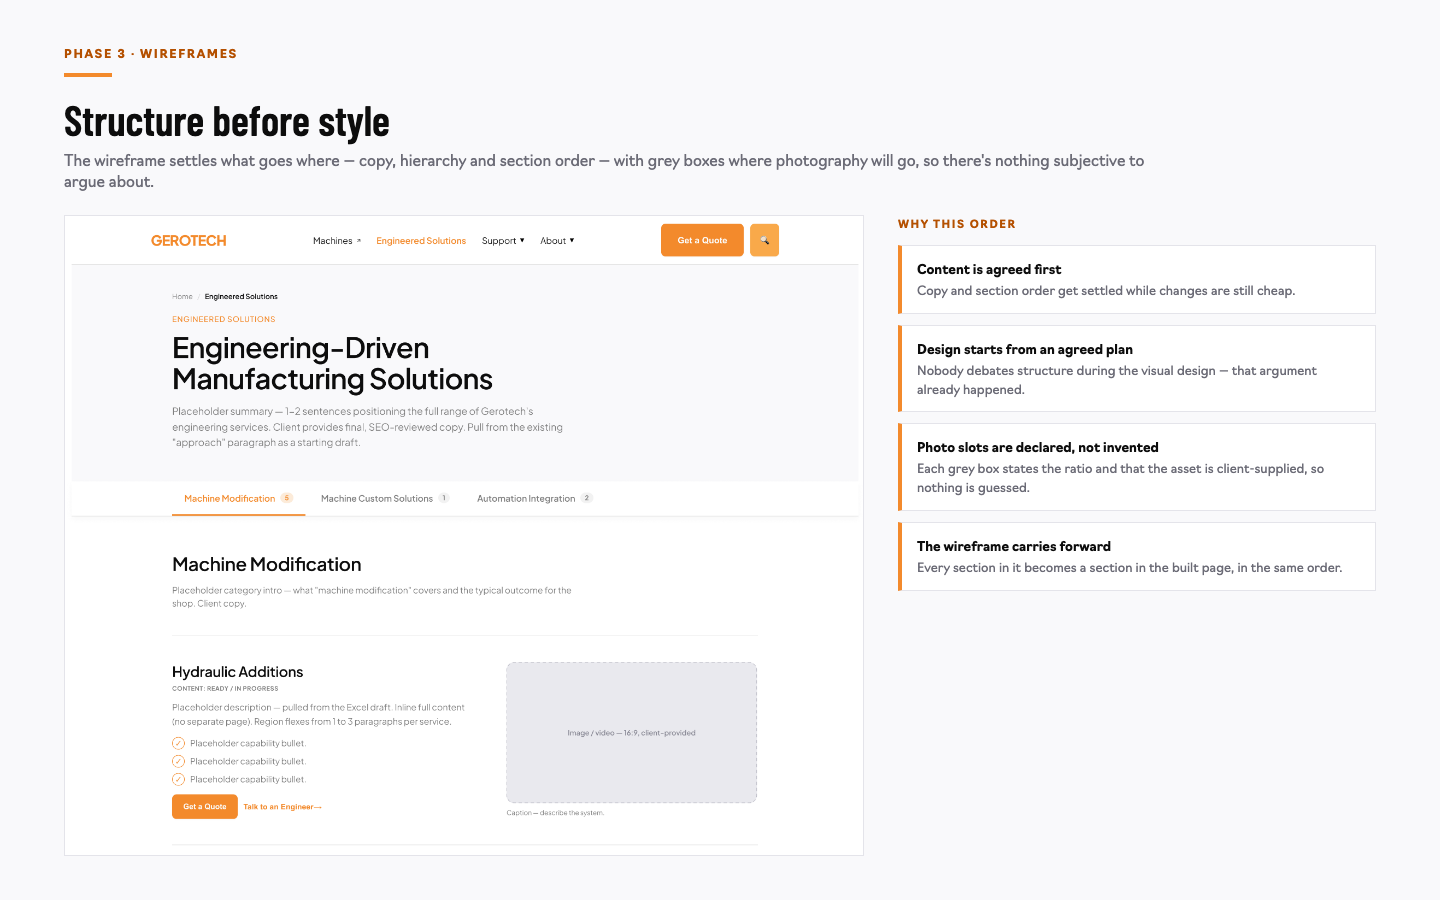
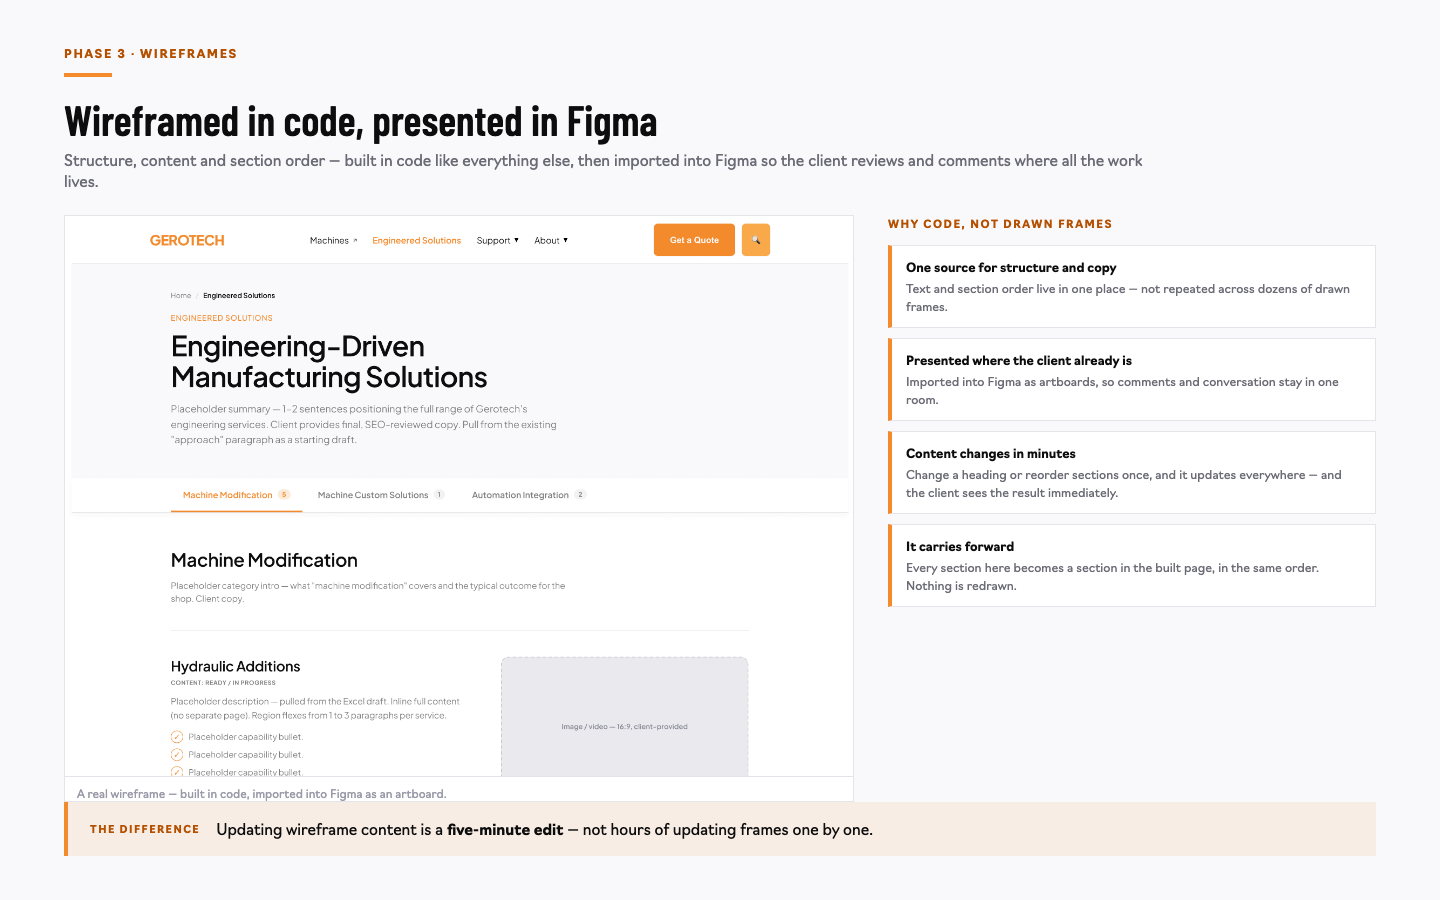
Wireframes are code too; Figma comments map to code via Cursor
- Wireframes are built in code and presented in Figma; a content edit is
  a five-minute job rather than hours of updating frames.
- Comments in Figma are mapped to the code with Cursor, and the updated
  build is re-imported into Figma as artboards.
- Checklist is now ten items.

diff --git a/gerotech-process-playbook.html b/gerotech-process-playbook.html
@@ -341,7 +341,7 @@
     <div class="slide__inner">
       <p class="eyebrow">Internal process playbook</p>
       <h1 class="slide__title">From kickoff call to a <span class="accent">dev-ready</span> build</h1>
-      <p class="lede">Figma is where the client sees and discusses everything. The code prototype is how we make the design fast, responsive and real — and it becomes the build. Seven phases, taught from the Gerotech redesign.</p>
+      <p class="lede">Everything we make — wireframes, designs, the build itself — is made in code and presented in Figma, where the client sees it and comments. That's why a content change takes minutes, not hours. Seven phases, taught from the Gerotech redesign.</p>
       <div style="margin-top:28px;font-size:clamp(12px,.9vw,14px);letter-spacing:.06em;text-transform:uppercase;color:rgba(255,255,255,.55);line-height:2">
         Discovery &nbsp;·&nbsp; Sitemap &nbsp;·&nbsp; Wireframes &nbsp;·&nbsp; Design &nbsp;·&nbsp; Review &nbsp;·&nbsp; Convert &nbsp;·&nbsp; Hand off
       </div>
@@ -361,11 +361,12 @@
       <div class="phases">
         <div class="phase"><span class="phase__num">01</span><span class="phase__name">Kickoff &amp; discovery</span><span class="phase__why">Understand the business, audit what exists, agree what success looks like.</span></div>
         <div class="phase"><span class="phase__num">02</span><span class="phase__name">Sitemap</span><span class="phase__why">Agree the structure and navigation before anything is designed.</span></div>
-        <div class="phase"><span class="phase__num">03</span><span class="phase__name">Wireframes</span><span class="phase__why">Settle content, hierarchy and section order — in Figma.</span></div>
-        <div class="phase"><span class="phase__num">04</span><span class="phase__name">Design</span><span class="phase__why">Direction, then the homepage, then every page — Figma and code together.</span></div>
-        <div class="phase"><span class="phase__num">05</span><span class="phase__name">Review &amp; approve</span><span class="phase__why">One feedback channel, tied to the exact spot.</span></div>
+        <div class="phase"><span class="phase__num">03</span><span class="phase__name">Wireframes</span><span class="phase__why">Built in code, presented in Figma — so content changes take minutes.</span></div>
+        <div class="phase"><span class="phase__num">04</span><span class="phase__name">Design</span><span class="phase__why">Moodboards set direction, then every page — built in code, reviewed in Figma.</span></div>
+        <div class="phase"><span class="phase__num">05</span><span class="phase__name">Review &amp; approve</span><span class="phase__why">Comments in Figma, mapped to the code with Cursor.</span></div>
         <div class="phase"><span class="phase__num">06</span><span class="phase__name">Convert to WordPress</span><span class="phase__why">Native editor plus structured fields. No page builder.</span></div>
         <div class="phase"><span class="phase__num">07</span><span class="phase__name">Hand off to dev</span><span class="phase__why">A designed, working front end ready for complex functionality.</span></div>
+        <div class="phase" aria-hidden="true"></div>
       </div>
       <div class="callout">
         <span class="callout__label">Use it when</span>
@@ -441,6 +442,7 @@
             <li><strong>Responsive ideas tested for real.</strong> Breakpoints, stacking and type scaling are judged in a browser, not imagined in a frame.</li>
             <li><strong>Animation concepts the client can watch.</strong> Motion is the hardest thing to review as a static image.</li>
             <li><strong>Layout experiments in minutes.</strong> Try three options before lunch and keep the one that works.</li>
+            <li><strong>Content updates in minutes, not hours.</strong> Change a heading or reorder sections once — no editing frames one by one.</li>
             <li><strong>Internal until design.</strong> Before the design phase it's ours to think in; from there it's what the client sees — through Figma.</li>
           </ul>
           <div class="proof">
@@ -626,10 +628,11 @@
       <ol class="checklist">
         <li>Audit what exists before designing anything.</li>
         <li>Agree the sitemap while changing it is free.</li>
-        <li>Settle structure and content in wireframes — in Figma.</li>
+        <li>Wireframe in code; present it in Figma.</li>
         <li>Set direction with moodboards, then agree the homepage.</li>
-        <li>Design in a loop: code for behaviour, Figma for the conversation.</li>
-        <li>Import code into Figma as artboards so the client reviews it there.</li>
+        <li>Design in code; keep Figma in step.</li>
+        <li>Import the build into Figma as artboards for review.</li>
+        <li>Map every Figma comment to the code with Cursor.</li>
         <li>One feedback channel, tied to a spot and an owner.</li>
         <li>Convert with the native editor plus structured fields — no builder.</li>
         <li>Hand dev a working front end, not a mockup.</li>

diff --git a/speaker-notes.md b/speaker-notes.md
@@ -16,19 +16,17 @@
 
 ## The one thing to land
 
-> **Figma is the room.** Everything the client sees and discusses happens there. **Code is the engine** — it's how we make the design responsive, animated and real, and it becomes the build.
-
-And the bridge that makes both work: the code prototype goes **back into Figma as artboards**, so the client always reviews in the room they know.
+> **Everything is built in code. Figma is where it's presented.** Wireframes, designs and the build itself are all made in code and shown in Figma, where the client comments — and those comments are mapped back to the code with Cursor. **That's why a content change takes minutes, not hours.**
 
 ## The three sentences that carry the deck
 
-1. **"Figma is the room. Code is how we make it, not where they review it."** (slide 3)
-2. **"Code for the hard-to-judge parts, back into Figma for the conversation."** (slide 10)
+1. **"Everything is built in code. Figma is where it's presented and discussed."** (slide 3)
+2. **"A wireframe content change is a five-minute edit — not hours of updating frames."** (slide 6)
 3. **"We hand dev a designed front end that's ready for the complex functionality our clients need."** (slide 16)
 
 ## Tone rules
 
-- The two tools are **not competitors**. If you catch yourself saying "we design in code instead of Figma", stop — that's the version we corrected.
+- The two tools are **not competitors**, and code is not "instead of" Figma. **Everything is built in code; Figma is where it's presented.** If you catch yourself saying "we design in code instead of Figma", stop — that's a version we corrected twice.
 - Talk in outcomes and decisions, never technology.
 - Never say "zero licences". The precise claim is on slide 17 — use it exactly.
 - Phases 1–3 are the ones teams skip. Say why skipping them makes phases 4–5 expensive.
@@ -44,8 +42,8 @@ Name the format: a **process in seven phases**, with Gerotech as the worked exam
 Walk the seven phases, one line each. Do not go into detail — this is the map. Then the "use it when" line: bespoke design, client needs to edit, project will grow.
 
 ### 03 · Figma is the room *(figure slide)*
-**This slide sets up everything after it.** Wireframes, moodboards, designs and comments all live in Figma. That's where the client sees the work and where the conversation happens.
-Say it plainly: *Figma is the room. Code is how we make it, not where they review it.*
+**This slide sets up everything after it.** Wireframes, moodboards, designs and comments all live in Figma — but **every one of them is built in code first**. Figma is the presentation and conversation layer; code is where the work is made.
+Say it plainly: *everything is built in code, and Figma is where it's presented.*
 
 ### 04 · Phase 1 — Kickoff & discovery *(figure slide)*
 We audit the live site before designing anything, so the redesign is grounded in facts.
@@ -55,19 +53,21 @@ The finding that shaped Gerotech: **the client could not edit their own content.
 The structure is agreed before any design work, when changing it is free.
 One decision here gets reused everywhere — navigation, mega-menu, mobile menu, breadcrumbs, search.
 
-### 06 · Phase 3 — Wireframes *(figure slide)*
-Structure before style. This is a **real wireframe** — grey boxes where photography goes, placeholder copy, declared image ratios. It goes into Figma, so the client reviews and comments there.
-Every section here becomes a section in the built page, in the same order.
+### 06 · Phase 3 — Wireframes *(figure slide — the content-speed argument)*
+**Wireframes are built in code too**, then imported into Figma so the client reviews and comments there.
+The reason is speed: text and section order live in one place, not repeated across dozens of drawn frames. **Changing wireframe content is a five-minute edit — not hours of updating frames one by one.**
+Structure before style still applies: copy and section order get settled while changes are still cheap, and every section here becomes a section in the built page, in the same order.
 
 ### 07 · Phase 4 — Design & iterate *(figure slide — the heart of the method)*
 Moodboards and reference sites set the direction; the homepage is agreed; then every page is designed in a loop between Figma and code.
 **Neither tool does the other's job:** Figma is where the design is presented and discussed; code is where responsive behaviour and motion are worked out. Because it runs both ways, neither copy drifts.
 
 ### 08 · What the code prototype adds
-**Frame the prototype correctly** — it isn't a rival to Figma. It's how we settle the things Figma is bad at judging:
+**Frame this correctly** — code isn't a rival to Figma. It's where everything is actually made, and it's how we settle the things Figma is bad at judging:
 - Responsive ideas tested for real (breakpoints, stacking, type scaling)
 - Animation concepts the client can actually watch
 - Layout experiments in minutes
+- **Content updates in minutes, not hours** — change a heading or reorder sections once, not frame by frame
 Also make the sequencing clear: **internal until design**, client-facing from the design phase onward.
 
 ### 09 · Every page, one system
@@ -75,13 +75,13 @@ The commercial point: new pages are **variations, not new decisions**. A shared 
 Responsive is built as we go, not retrofitted at the end.
 
 ### 10 · HTML → Figma artboards *(figure slide)*
-**The bridge that makes the two-tool approach work.** Work built in code goes back into Figma as editable artboards, so the client reviews it in the room they already use.
-This is the piece people miss: it's not "design in Figma *or* code". It's code for the hard-to-judge parts, back into Figma for the conversation.
+**The bridge that makes the whole approach work** — and it applies to wireframes as well as finished designs. Work built in code goes back into Figma as editable artboards, so the client reviews it in the room they already use.
+This is the piece people miss: it's not "Figma *or* code". It's built in code, presented in Figma.
 Tool: **html.to.design** — a Chrome extension plus a Figma plugin.
 
 ### 11 · Phase 5 — Review & approve *(figure slide)*
 One feedback channel, in Figma. Notes attach to the exact spot, and each becomes a tracked item with an owner.
-Real comments from the Gerotech file. The benefit: a long review cycle never turns into an argument about what was agreed.
+**The mechanism:** we map each Figma comment to the code **with Cursor**, make the change, and the updated build is imported back into Figma as artboards. The client never has to leave the room — and nothing is lost in translation.
 
 ### 12 · The style guide *(figure slide)*
 **Runs across every phase.** Decide the rules once — colour, type, spacing — then every page is a variation.
@@ -120,7 +120,7 @@ The rule that prevents the worst failure: a control can render the design perfec
 Real output: 279 of 291 controls applied. The other 12 are correct by design — a blank colour choice means "keep the design colour".
 
 ### 19 · The checklist
-**The slide to keep.** Read the nine items aloud, slowly.
+**The slide to keep.** Read the ten items aloud, slowly.
 
 ### 20 · Watch out for these
 Priority key: **1** could have blocked the client from editing or damaged the approved design; **3** was friction. Every row leads with the fix.
@@ -143,13 +143,16 @@ Two decisions:
 ## Likely questions
 
 **"Do we design in Figma or in code?"**
-Both, and they do different jobs. Figma is where the design is presented, discussed and approved. Code is where responsive behaviour and motion are worked out, because those are far quicker to judge in a browser. We keep them in step.
+Both, but they do different jobs. **Everything is built in code** — wireframes included. **Figma is where it's presented, discussed and approved.** Code is also where responsive behaviour and motion are worked out, because those are far quicker to judge in a browser.
 
-**"Isn't designing in code slower?"**
-It's faster to *finish*. Changes take minutes instead of a redraw and re-export, and there's no translation step later where detail gets lost. Nine days from kickoff to a client-ready draft.
+**"Isn't building wireframes in code slower?"**
+It's much faster to *change*. In drawn frames, updating copy across a wireframe means editing every frame that repeats it — hours. In code, text and structure live in one place, so it's a **five-minute edit**, and the client sees the result immediately.
 
 **"Why put code back into Figma?"**
-Because the client reviews and comments in Figma. Artboards keep the design file complete and presentable without slowing the build down.
+Because the client reviews and comments in Figma. Artboards keep the design file complete and presentable without slowing the build down — and they're how the comment-to-code loop works.
+
+**"How do Figma comments actually get actioned?"**
+We map each comment to the code **with Cursor**. The change is made once, in one place, and the updated build is imported back into Figma as artboards. The client comments where the work is and never has to leave the room.
 
 **"Why not use a page builder? The client could edit anything then."**
 We costed it: 46–70 developer days, plus lock-in, and it can't reproduce a bespoke design system from stock components. Editor-plus-fields gives structured editing without the builder.

diff --git a/README.md b/README.md
@@ -25,19 +25,21 @@ Every visual is real: the wireframe and design file from Figma, the working prot
 
 1. **Kickoff & discovery** — audit what exists; agree what success looks like
 2. **Sitemap** — structure and navigation, agreed while changing them is free
-3. **Wireframes** — content, hierarchy and section order
+3. **Wireframes** — built in code, presented in Figma; content edits take minutes
 4. **Design** — moodboards set direction, the homepage is agreed, then every page
-5. **Review & approve** — one feedback channel, tied to the exact spot
+5. **Review & approve** — comments in Figma, mapped to the code with Cursor
 6. **Convert to WordPress** — native editor plus structured fields, no page builder
 7. **Hand off to dev** — a designed, working front end ready for complex functionality
 
 ## How the two tools work together
 
-**Figma is the room.** Everything the client sees and discusses happens there — wireframes, moodboards, designs, comments.
+**Everything is built in code.** Wireframes, designs and the build itself — including responsive behaviour, layouts and animation concepts. Code is internal until the design phase, then it's what the client sees.
 
-**Code is the engine.** The prototype is internal until the design phase, then it's how we explore responsive behaviour, layouts and animation concepts quickly.
+**Figma is the room.** Everything the client sees and discusses happens there — wireframes, moodboards, designs, comments. **Code wireframes mean a content change is a five-minute edit, not hours of updating frames.**
 
-**The bridge:** [html.to.design](https://html.to.design/) imports the HTML prototype into Figma as editable artboards, so code-built work is reviewed in the room the client already uses.
+**The bridge:** [html.to.design](https://html.to.design/) imports the code into Figma as editable artboards, so code-built work is reviewed in the room the client already uses.
+
+**The loop:** client comments in Figma → we map each note to the code with Cursor → the change is made → the build is re-imported into Figma.
 
 ## Licence position
 
